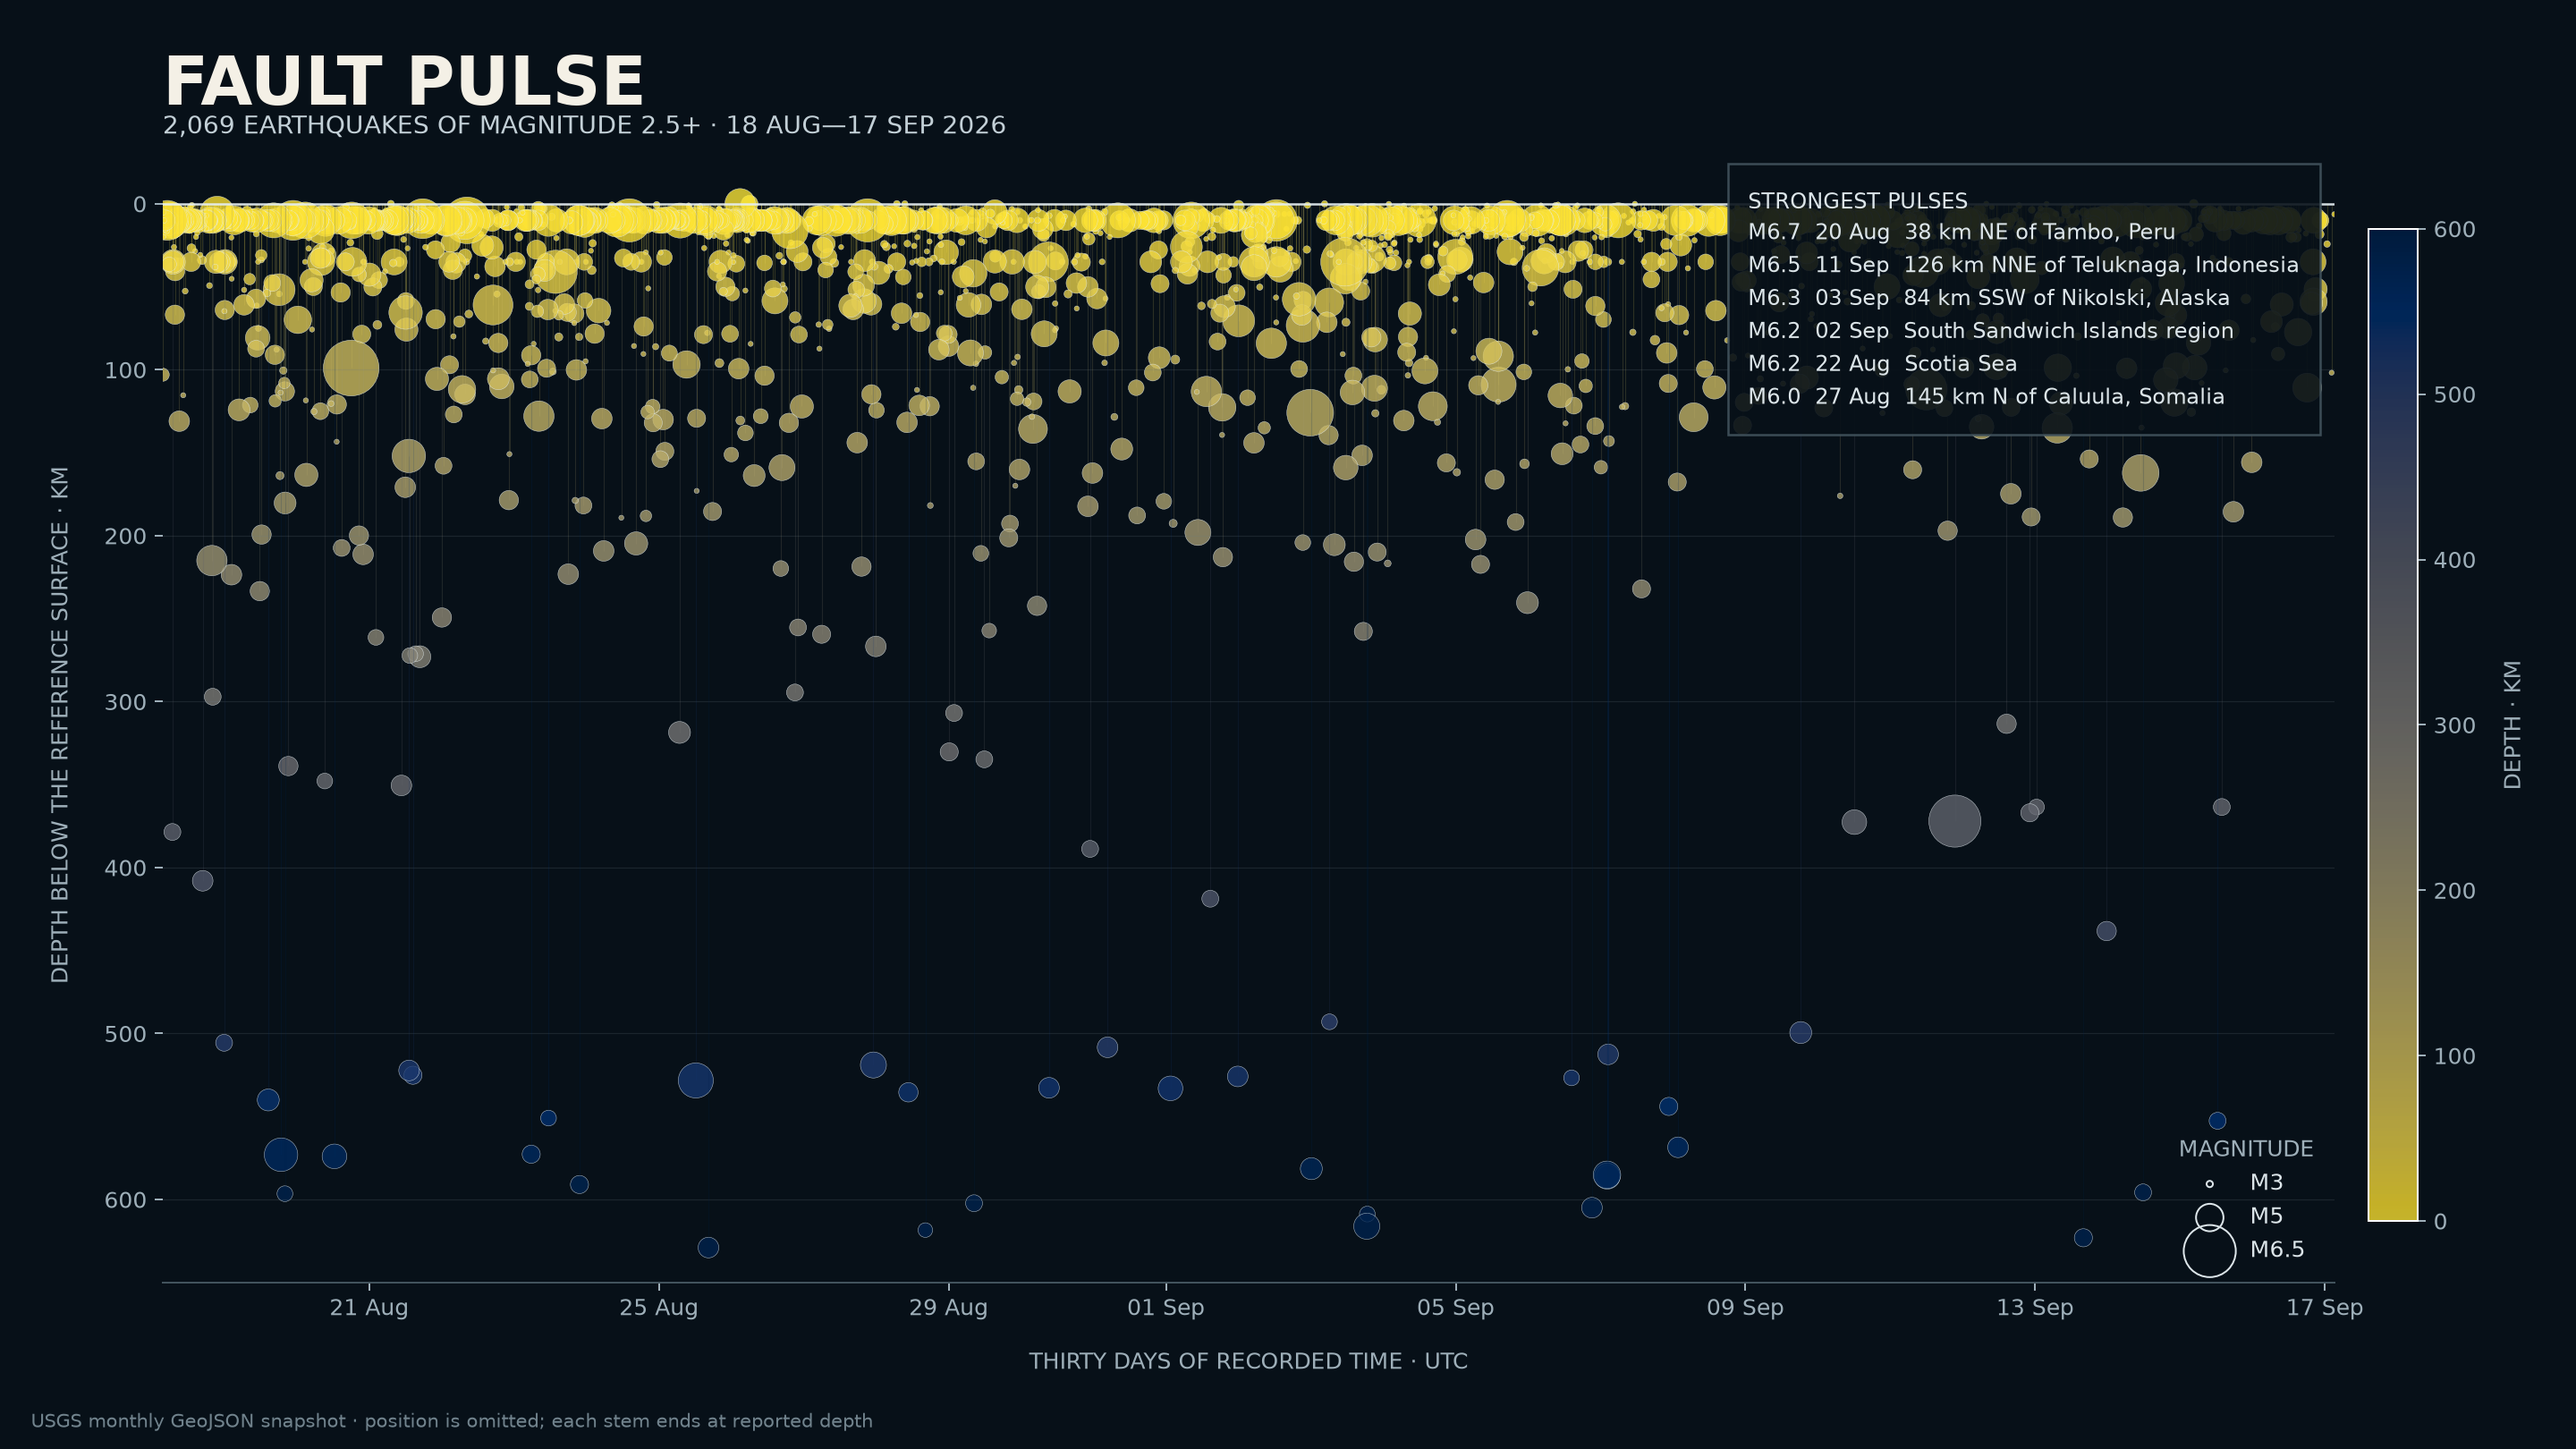
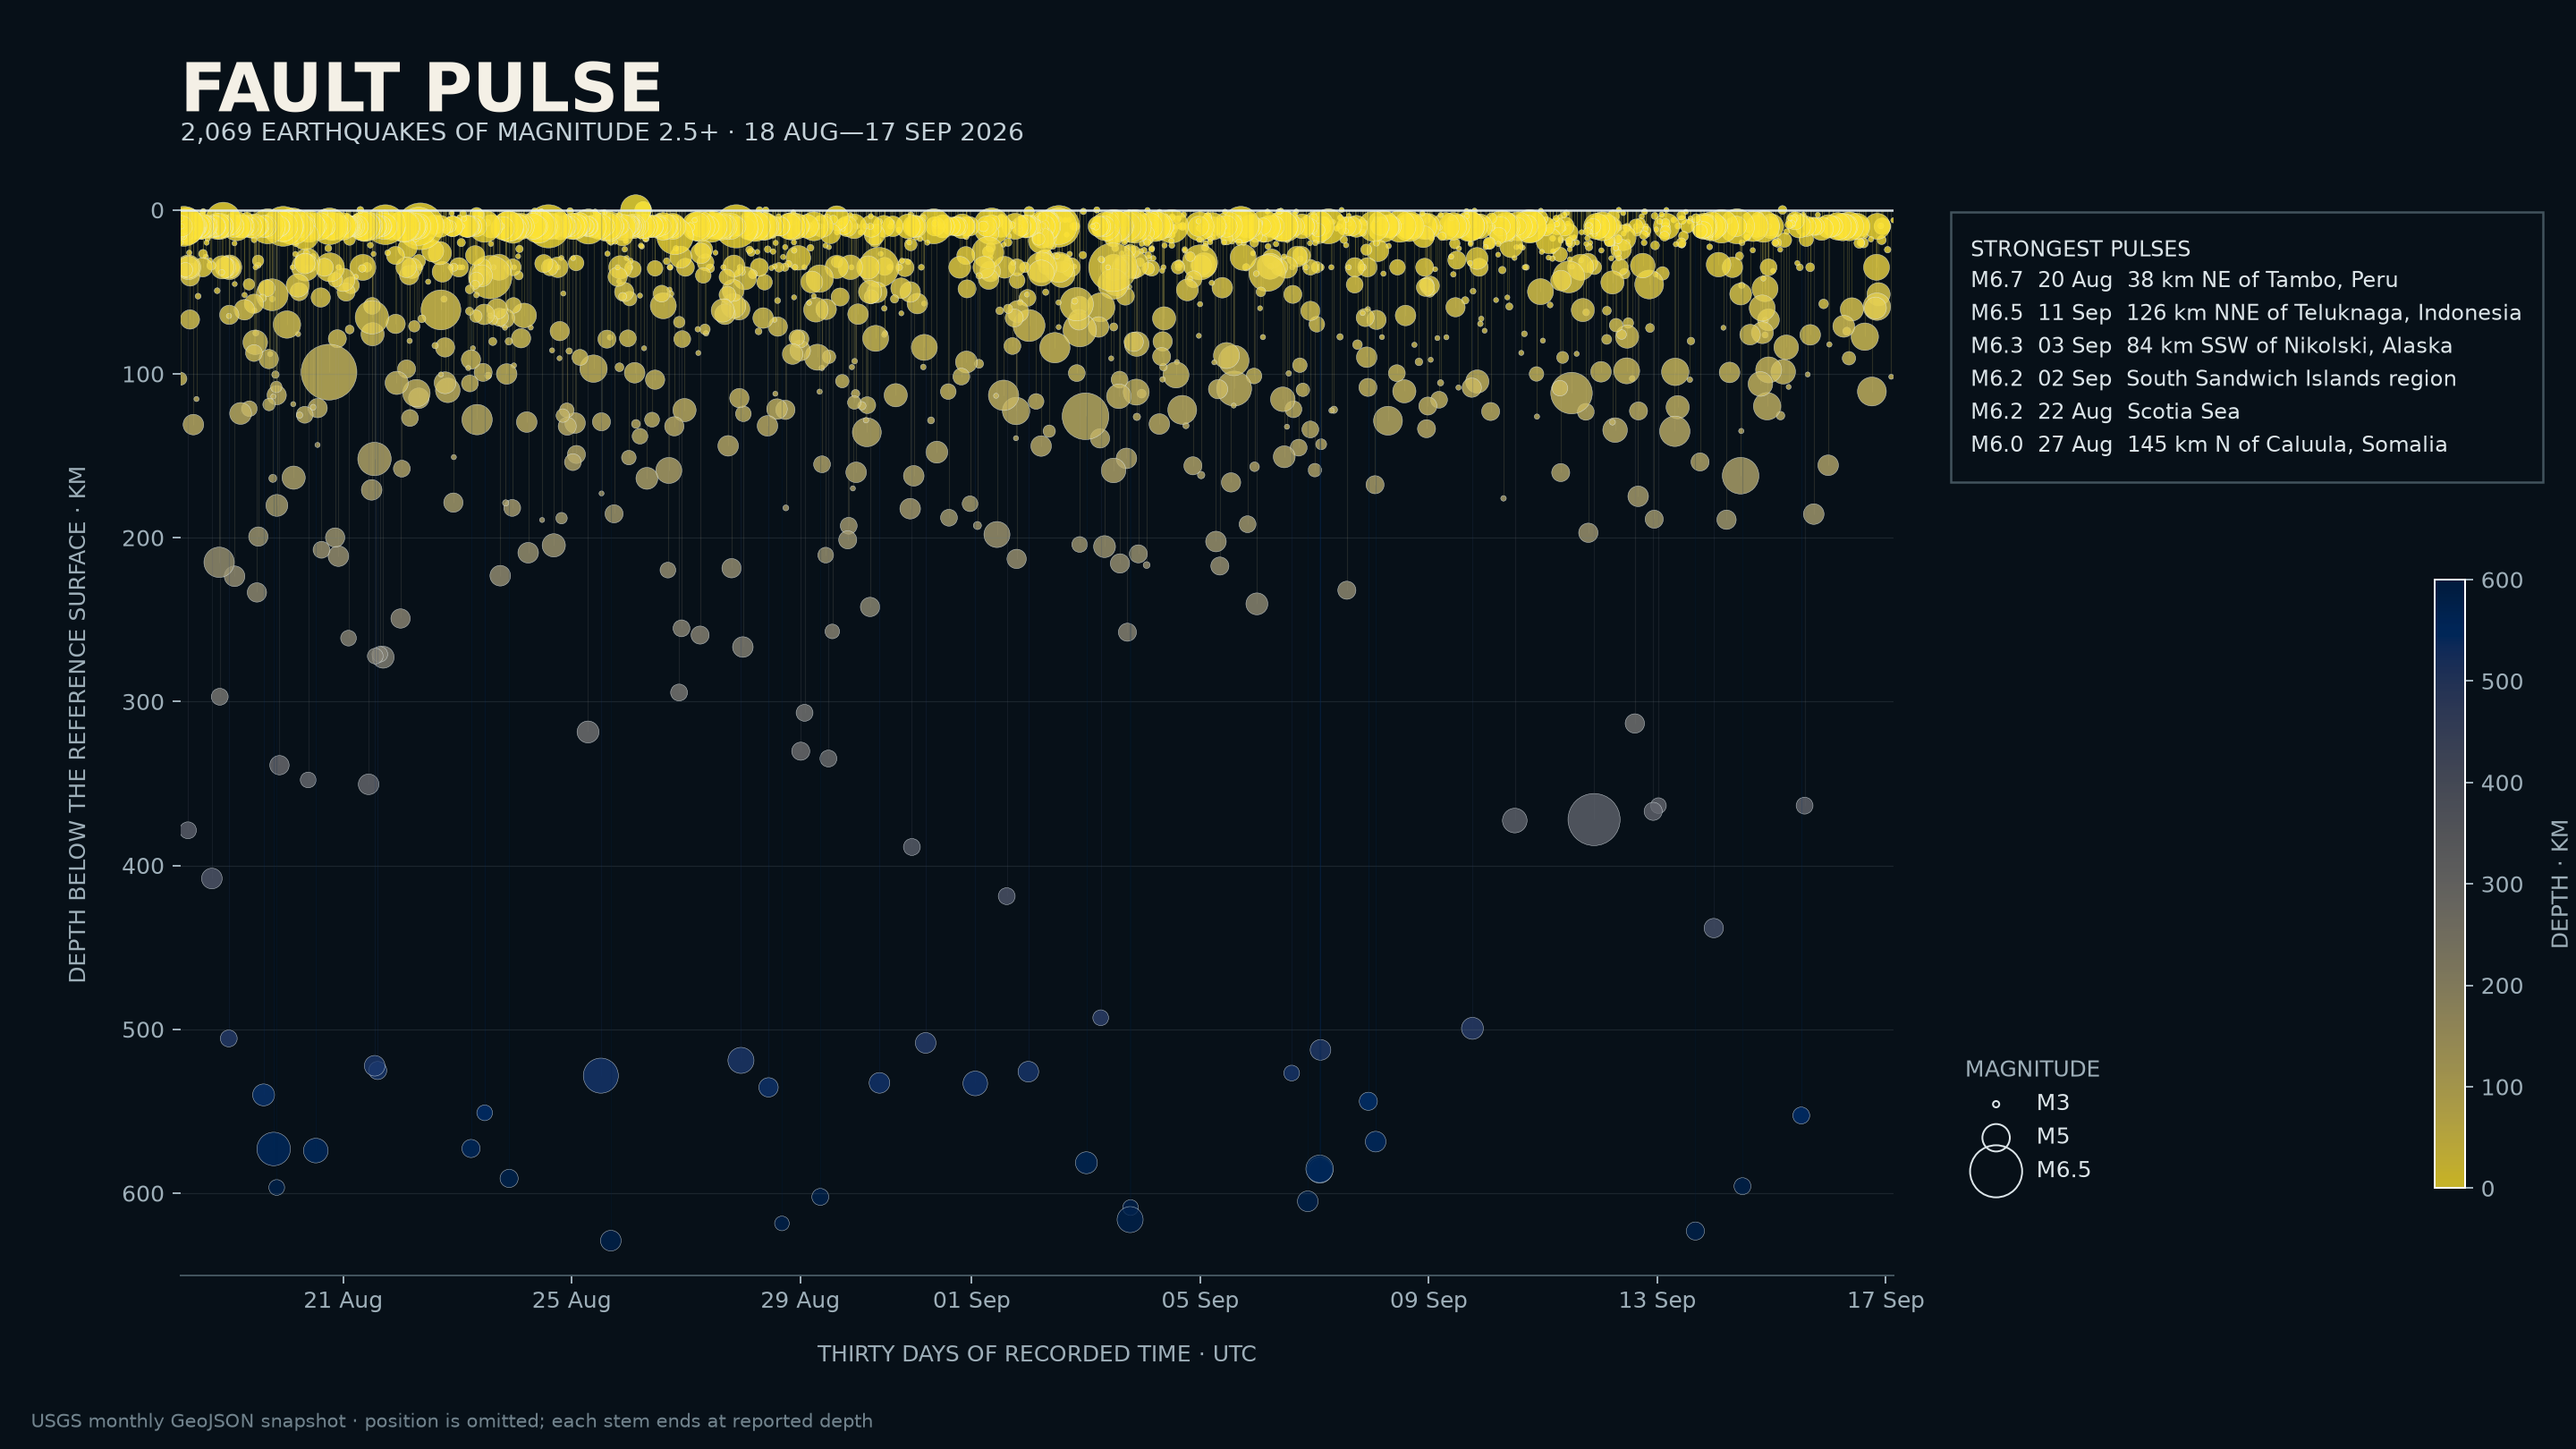
separate earthquake evidence from annotations

diff --git a/plot.py b/plot.py
@@ -116,16 +116,15 @@ def main():
         color="#c3d0d7",
         va="bottom",
     )
-    ax.text(
-        0.73,
-        0.985,
+    fig.text(
+        0.765,
+        0.84,
         "\n".join(summary),
-        transform=ax.transAxes,
         fontsize=9.5,
         color="#dce5e9",
         va="top",
         linespacing=1.55,
-        bbox={"facecolor": "#071018", "edgecolor": "#42535d", "alpha": 0.9, "pad": 9},
+        bbox={"facecolor": "#071018", "edgecolor": "#42535d", "alpha": 1.0, "pad": 9},
     )
 
     ax.grid(axis="y", color="#6d7d86", linewidth=0.5, alpha=0.2)
@@ -133,12 +132,14 @@ def main():
     ax.spines[["top", "right", "left"]].set_visible(False)
     ax.spines["bottom"].set_color("#42535d")
     ax.tick_params(colors="#9eafb9")
-    colour_key = fig.colorbar(points, ax=ax, pad=0.015, fraction=0.022)
+    colour_axis = fig.add_axes([0.945, 0.18, 0.012, 0.42])
+    colour_key = fig.colorbar(points, cax=colour_axis)
     colour_key.set_label("DEPTH · KM", color="#9eafb9", labelpad=12)
     colour_key.ax.tick_params(colors="#9eafb9")
 
+    magnitude_handles = []
     for magnitude in (3.0, 5.0, 6.5):
-        ax.scatter(
+        handle = ax.scatter(
             [], [],
             s=5 + (magnitude - MIN_MAGNITUDE + 0.25) ** 3 * 7,
             facecolors="none",
@@ -146,9 +147,12 @@ def main():
             linewidths=0.8,
             label=f"M{magnitude:g}",
         )
-    legend = ax.legend(
+        magnitude_handles.append(handle)
+    legend = fig.legend(
+        handles=magnitude_handles,
         title="MAGNITUDE",
-        loc="lower right",
+        loc="lower left",
+        bbox_to_anchor=(0.755, 0.17),
         frameon=False,
         labelcolor="#dce5e9",
     )
@@ -161,7 +165,7 @@ def main():
         color="#71838d",
         fontsize=8.5,
     )
-    fig.tight_layout(rect=(0.01, 0.035, 0.99, 0.98))
+    fig.subplots_adjust(left=0.07, right=0.735, bottom=0.12, top=0.88)
 
     OUT.mkdir(exist_ok=True)
     fig.savefig(OUT / PICTURE, dpi=180)

diff --git a/PROCESS.md b/PROCESS.md
@@ -58,3 +58,13 @@ representation by converting every timestamp once with `matplotlib.dates.date2nu
 and then using the same numeric coordinates for both layers. I kept this explicit
 conversion rather than hiding it inside plotting calls because it makes the
 coordinate transformation inspectable.
+
+## 20 September 2026 — separating evidence from annotation
+
+I reviewed the rendered poster at full size and found that the strongest-event
+box obscured part of the evidence it was meant to explain. I rejected the
+overlay layout and reserved a separate right-hand column for the six strongest
+events, the magnitude key and the depth scale. This reduces the width of the
+time field slightly, but no longer covers any earthquake marks. I kept the dark
+seismic-score treatment because the redundant depth encodings—vertical position,
+stem length and colour—remain legible even when the colour difference is subtle.
